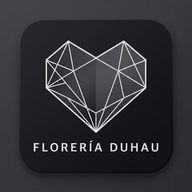
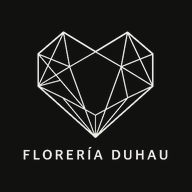
App instalable más profesional: íconos a pantalla completa, accesos directos y manifiesto completo (#259)
Claude-Session: https://claude.ai/code/session_01S9sGf93upJ4FwktUig6WjH

diff --git a/src/modules/app.js b/src/modules/app.js
@@ -15,7 +15,7 @@ import { EV_ZONAS, openZonasEventoModal, guardarZonasEvento } from './zonas-even
 import { configurarCalendario, getEventosView, initEventosToggle, renderCalendario, calPrevMonth, calNextMonth } from './calendario.js';
 import { configurarCostoHotel, renderCostoHotel, exportCostoHotel } from './costo-hotel.js';
 import { PAGE_LABELS, JARDINERIA_BASE, HABITACIONES_BASE, DIA_MADRE_ARREGLOS } from './datos-base.js';
-import { renderBottomNav, updateBottomNav } from './nav-inferior.js';
+import { renderBottomNav, updateBottomNav, irAAtajoInicial } from './nav-inferior.js';
 import { listaPreciosData, renderListaPrecios, lpUpdItem, lpDelItem, lpDelCat, openLpModal, saveLpItem, openLpCatModal, addLpCat, lpAddPhotos, lpRemovePhoto, lpOpenViewer } from './lista-precios.js';
 import { leerFotoComprimida, comprimirImagen } from './imagenes.js';
 import { toggleCfSplit, cfSplitAddRow, cfSplitRemoveRow, cfSplitUpdRow, getCfSplitRows, resetCfSplitRows } from './compras-reparto.js';
@@ -13614,6 +13614,7 @@ async function doLogin(){
     setTimeout(()=>initPushForUser?.(), 2000);
     setTimeout(()=>alertasAutomaticas(TODAY_ISO), 4000);
     setTimeout(()=>checkOnboarding(entry.role), 800);
+    setTimeout(()=>irAAtajoInicial(), 100);
     // Briefing del día (si ya se vio hoy, cae al aviso de eventos de siempre)
     setTimeout(()=>mostrarBriefingDia(), 2200);
     // Mantenimiento: poda del historial (gerencia, una vez al día, sin urgencia)

diff --git a/src/modules/nav-inferior.js b/src/modules/nav-inferior.js
@@ -63,3 +63,28 @@ export function updateBottomNav(pageId) {
     el.classList.toggle('active', el.dataset.page === pageId);
   });
 }
+
+// ── ATAJOS DE LA APP INSTALADA ──────────────────────────────────────────────
+// Al mantener apretado el ícono de la app, el manifiesto ofrece accesos
+// directos (/?ir=checklist, etc.). Se guarda el destino al abrir y se usa
+// recién después del login; solo se respeta si esa sección está en la barra
+// inferior del rol (así un atajo no abre nada que el rol no vería).
+let _destinoAtajo = null;
+try {
+  const u = new URL(location.href);
+  _destinoAtajo = u.searchParams.get('ir');
+  if(_destinoAtajo){
+    u.searchParams.delete('ir');
+    history.replaceState(null, '', u.pathname + u.search + u.hash);
+  }
+} catch(e){ _destinoAtajo = null; }
+
+export function irAAtajoInicial() {
+  const destino = _destinoAtajo;
+  _destinoAtajo = null;
+  if(!destino) return;
+  const item = document.querySelector('.bottom-nav-item[data-page="' + CSS.escape(destino) + '"]');
+  if(!item) return;
+  window.navigate?.(destino, null);
+  updateBottomNav(destino);
+}

diff --git a/public/service-worker.js b/public/service-worker.js
@@ -1,10 +1,11 @@
-const CACHE = 'floreria-duhau-v18';
+const CACHE = 'floreria-duhau-v19';
 const ASSETS = [
   '/',
   '/index.html',
   '/manifest.json',
   '/icon-192.png',
   '/icon-512.png',
+  '/icon-maskable-512.png',
   '/apple-touch-icon.png',
   'https://fonts.googleapis.com/css2?family=Cormorant+Garamond:ital,wght@0,300;0,400;0,500;0,600;1,300;1,400&family=DM+Sans:ital,opsz,wght@0,9..40,300;0,9..40,400;0,9..40,500;0,9..40,600;1,9..40,300;1,9..40,400&family=Jost:wght@300;400;500;600&display=swap'
 ];
